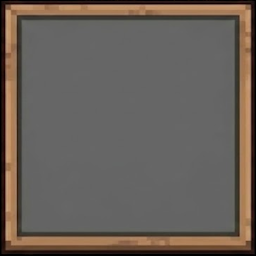
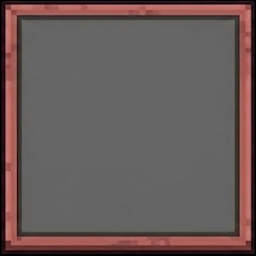
fotky

Changed region(s): [[0.0, 0.0, 1.0, 0.9688]]

diff --git a/Frontend/js/catalog.js b/Frontend/js/catalog.js
@@ -1,70 +1,227 @@
 
+// const squirrelsData = [
+//     { id: 1,  name: "Zrzavá Bleskovka",  desc: "Nejrychlejší běžec v lese.",           str: 35, spd: 95, dur: 40, price: 120, img: "./../images/sq1.png" },
+//     { id: 2,  name: "Veverčí Rváč",      desc: "Unese i ten největší vlašák.",         str: 90, spd: 30, dur: 85, price: 250, img: "./../images/sq2.png" },
+//     { id: 3,  name: "Lesní Průzkumník",  desc: "Spolehlivá veverka na dlouhé cesty.",  str: 60, spd: 65, dur: 60, price: 180, img: "./../images/sq3.png" },
+//     { id: 4,  name: "Noční Stín",        desc: "Operuje hlavně za absolutní tmy.",    str: 45, spd: 80, dur: 50, price: 210, img: "./../images/sq4.png" },
+//     { id: 5,  name: "Oříškový Guru",     desc: "Najde žalud i pod metrem sněhu.",      str: 30, spd: 55, dur: 70, price: 150, img: "./../images/sq5.png" },
+//     { id: 6,  name: "Chundelatý Ninja",  desc: "Skáče z větve na větev bez hnutku.",   str: 55, spd: 85, dur: 45, price: 195, img: "./../images/sq6.png" },
+//     { id: 7,  name: "Dubový Obr",        desc: "Veverka s neuvěřitelnou výdrží.",      str: 85, spd: 25, dur: 95, price: 260, img: "./../images/sq7.png" },
+//     { id: 8,  name: "Veverka Špión",     desc: "Sleduje nepřátelské kmeny ptáků.",     str: 40, spd: 75, dur: 55, price: 165, img: "./../images/sq8.png" },
+//     { id: 9,  name: "Zlatý Sběrač",      desc: "Generuje extra žaludy každou minutu.", str: 50, spd: 60, dur: 65, price: 300, img: "./../images/sq9.png" },
+//     { id: 10, name: "Mladý Učeň",        desc: "Teprve se učí správně louskat.",       str: 20, spd: 40, dur: 30, price: 50,  img: "./../images/sq10.png" },
+//     { id: 11, name: "Veverčí Král",      desc: "Vládce celého dubového paláce.",       str: 95, spd: 70, dur: 80, price: 500, img: "./../images/sq11.png" },
+//     { id: 12, name: "Bleskový Lovec",    desc: "Uloví jakýkoliv hmyz za letu.",        str: 65, spd: 90, dur: 50, price: 220, img: "./../images/sq17.png" },
+//     { id: 13, name: "Starý Mudrc",       desc: "Ví o lese věci, které ostatní ne.",    str: 30, spd: 35, dur: 75, price: 140, img: "./../images/sq18.png" },
+//     { id: 14, name: "Parašutista",       desc: "Plachtí vzduchem na dlouhé vzdálenosti.",str: 50, spd: 80, dur: 60, price: 200, img: "./../images/sq14.png" },
+//     { id: 15, name: "Asfaltový Pirát",   desc: "Veverka zvyklá na městské parky.",     str: 70, spd: 50, dur: 65, price: 175, img: "./../images/sq15.png" },
+//     { id: 16, name: "Sněžný Chlupáč",    desc: "Hustá srst ji chrání před mrazem.",    str: 60, spd: 45, dur: 85, price: 190, img: "./../images/sq16.png" },
+//     { id: 17, name: "Zloděj Šišek",      desc: "Krade zásoby ostatním zvířatům.",      str: 45, spd: 85, dur: 40, price: 185, img: "./../images/sq12.png" },
+//     { id: 18, name: "Kapitán Ocas",      desc: "Vede veverčí jednotky do boje.",       str: 75, spd: 65, dur: 70, price: 240, img: "./../images/sq13.png" },
+//     { id: 19, name: "Kyber Veverka",     desc: "Vylepšená prototypová veverka.",       str: 80, spd: 80, dur: 80, price: 400, img: "./../images/sq19.png" },
+//     { id: 20, name: "Poustevník",        desc: "Žije sama na vrcholu nejvyššího smrku.",str: 55, spd: 55, dur: 70, price: 130, img: "./../images/sq20.png" },
+//     { id: 21, name: "Šílený Vědec",      desc: "Provádí pokusy s kvašenými bobulemi.", str: 40, spd: 60, dur: 55, price: 160, img: "./../images/sq21.png" }
+// ];
+
+// const grid = document.getElementById('catalog-grid');
+
+// squirrelsData.forEach(squirrel => {
+//     const slot = document.createElement('div');
+//     slot.className = 'item-slot';
+//     slot.style.cursor = 'pointer';
+    
+//     const img = document.createElement('img');
+//     img.src = squirrel.img;
+//     img.alt = squirrel.name;
+    
+//     slot.appendChild(img);
+//     grid.appendChild(slot);
+
+//     slot.addEventListener('click', () => {
+//         openModal(squirrel);
+//     });
+// });
+
+// const modal = document.getElementById('info-modal');
+// const modalTitle = document.getElementById('modal-title');
+// const modalDesc = document.getElementById('modal-desc');
+// const modalImg = document.getElementById('modal-img');
+// const modalPrice = document.getElementById('modal-price');
+// const barStr = document.getElementById('bar-str');
+// const barSpd = document.getElementById('bar-spd');
+// const barDur = document.getElementById('bar-dur');
+// const closeBtn = document.querySelector('.close-btn');
+
+// function openModal(data) {
+//     modalTitle.innerText = data.name;
+//     modalDesc.innerText = data.desc;
+//     modalPrice.innerText = data.price;
+//     modalImg.setAttribute('src', data.img);
+
+//     barStr.style.width = data.str + '%';
+//     barSpd.style.width = data.spd + '%';
+//     barDur.style.width = data.dur + '%';
+
+//     modal.classList.add('active');
+// }
+
+// closeBtn.addEventListener('click', () => modal.classList.remove('active'));
+// modal.addEventListener('click', (e) => { if (e.target === modal) modal.classList.remove('active'); });
+   
+
+
+// const squirrelsData = [
+//     // 10x COMMON
+//     { id: 1,  name: "Nutty",  desc: "Always happy as long as there is a fresh acorn in his paws.",           str: 35, spd: 95, dur: 40, price: 120, img: "./../images/nutty.png", rarity: "common" },
+//     { id: 2,  name: "Grumpy",      desc: "Not even a cozy leaf on his head can fix his permanent bad mood.",          str: 90, spd: 30, dur: 85, price: 250, img: "./../images/grumpy.png", rarity: "common" },
+//     { id: 3,  name: "Scout",  desc: "Spolehlivá veverka na dlouhé cesty.",  str: 60, spd: 65, dur: 60, price: 180, img: "./../images/scout.png", rarity: "common" },
+//     { id: 4,  name: "Noční Stín",        desc: "Operuje hlavně za absolutní tmy.",    str: 45, spd: 80, dur: 50, price: 210, img: "./../images/sq4.png", rarity: "common" },
+//     { id: 5,  name: "Oříškový Guru",     desc: "Najde žalud i pod metrem sněhu.",      str: 30, spd: 55, dur: 70, price: 150, img: "./../images/sq5.png", rarity: "common" },
+//     { id: 6,  name: "Chundelatý Ninja",  desc: "Skáče z větve na větev bez hnutku.",   str: 55, spd: 85, dur: 45, price: 195, img: "./../images/sq6.png", rarity: "common" },
+//     { id: 7,  name: "Dubový Obr",        desc: "Veverka s neuvračitelnou výdrží.",      str: 85, spd: 25, dur: 95, price: 260, img: "./../images/sq7.png", rarity: "common" },
+//     { id: 8,  name: "Veverka Špión",     desc: "Sleduje nepřátelské kmeny ptáků.",     str: 40, spd: 75, dur: 55, price: 165, img: "./../images/sq8.png", rarity: "common" },
+//     { id: 10, name: "Mladý Učeň",        desc: "Teprve se učí správně louskat.",       str: 20, spd: 40, dur: 30, price: 50,  img: "./../images/sq9.png", rarity: "common" },
+//     { id: 13, name: "Starý Mudrc",       desc: "Ví o lese věci, které ostatní ne.",    str: 30, spd: 35, dur: 75, price: 140, img: "./../images/sq10.png", rarity: "common" },
+
+//     // 6x RARE
+//     { id: 12, name: "Bleskový Lovec",    desc: "Uloví jakýkoliv hmyz za letu.",        str: 65, spd: 90, dur: 50, price: 220, img: "./../images/sq11.png", rarity: "rare" },
+//     { id: 14, name: "Parašutista",       desc: "Plachtí vzduchem na dlouhé vzdálenosti.",str: 50, spd: 80, dur: 60, price: 200, img: "./../images/sq17.png", rarity: "rare" },
+//     { id: 15, name: "Asfaltový Pirát",   desc: "Veverka zvyklá na městské parky.",     str: 70, spd: 50, dur: 65, price: 175, img: "./../images/sq18.png", rarity: "rare" },
+//     { id: 16, name: "Sněžný Chlupáč",    desc: "Hustá srst ji chrání před mrazem.",    str: 60, spd: 45, dur: 85, price: 190, img: "./../images/sq14.png", rarity: "rare" },
+//     { id: 17, name: "Zloděj Šišek",      desc: "Krade zásoby ostatním zvířatům.",      str: 45, spd: 85, dur: 40, price: 185, img: "./../images/sq15.png", rarity: "rare" },
+//     { id: 18, name: "Kapitán Ocas",      desc: "Vede veverčí jednotky do boje.",       str: 75, spd: 65, dur: 70, price: 240, img: "./../images/sq16.png", rarity: "rare" },
+
+//     // 3x EPIC
+//     { id: 9,  name: "Zlatý Sběrač",      desc: "Generuje extra žaludy každou minutu.", str: 50, spd: 60, dur: 65, price: 300, img: "./../images/sq12.png", rarity: "epic" },
+//     { id: 20, name: "Poustevník",        desc: "Žije sama na vrcholu nejvyššího smrku.",str: 55, spd: 55, dur: 70, price: 130, img: "./../images/sq13.png", rarity: "epic" },
+//     { id: 21, name: "Šílený Vědec",      desc: "Provádí pokusy s kvašenými bobulemi.", str: 40, spd: 60, dur: 55, price: 160, img: "./../images/sq19.png", rarity: "epic" },
+
+//     // 2x LEGENDARY
+//     { id: 11, name: "Veverčí Král",      desc: "Vládce celého dubového paláce.",       str: 95, spd: 70, dur: 80, price: 500, img: "./../images/sq20.png", rarity: "legendary" },
+//     { id: 19, name: "Kyber Veverka",     desc: "Vylepšená prototypová veverka.",       str: 80, spd: 80, dur: 80, price: 400, img: "./../images/sq21.png", rarity: "legendary" }
+// ];
+
+// const grid = document.getElementById('catalog-grid');
+
+// squirrelsData.forEach(squirrel => {
+//     const slot = document.createElement('div');
+//     // TADY: Přidáme hlavní třídu i třídu rarity (např. "item-slot common")
+//     slot.className = `item-slot ${squirrel.rarity}`;
+//     slot.style.cursor = 'pointer';
+    
+//     const img = document.createElement('img');
+//     img.src = squirrel.img;
+//     img.alt = squirrel.name;
+    
+//     slot.appendChild(img);
+//     grid.appendChild(slot);
+
+//     slot.addEventListener('click', () => {
+//         openModal(squirrel);
+//     });
+// });
+
+// const modal = document.getElementById('info-modal');
+// const modalTitle = document.getElementById('modal-title');
+// const modalDesc = document.getElementById('modal-desc');
+// const modalImg = document.getElementById('modal-img');
+// const modalPrice = document.getElementById('modal-price');
+// const barStr = document.getElementById('bar-str');
+// const barSpd = document.getElementById('bar-spd');
+// const barDur = document.getElementById('bar-dur');
+// const closeBtn = document.querySelector('.close-btn');
+
+// function openModal(data) {
+//     modalTitle.innerText = data.name;
+//     modalDesc.innerText = data.desc;
+//     modalPrice.innerText = data.price;
+//     modalImg.setAttribute('src', data.img);
+
+//     barStr.style.width = data.str + '%';
+//     barSpd.style.width = data.spd + '%';
+//     barDur.style.width = data.dur + '%';
+
+//     modal.classList.add('active');
+// }
+
+// closeBtn.addEventListener('click', () => modal.classList.remove('active'));
+// modal.addEventListener('click', (e) => { if (e.target === modal) modal.classList.remove('active'); });
+
 const squirrelsData = [
-    { id: 1,  name: "Zrzavá Bleskovka",  desc: "Nejrychlejší běžec v lese.",           str: 35, spd: 95, dur: 40, price: 120, img: "./../images/sq1.png" },
-    { id: 2,  name: "Veverčí Rváč",      desc: "Unese i ten největší vlašák.",         str: 90, spd: 30, dur: 85, price: 250, img: "./../images/sq2.png" },
-    { id: 3,  name: "Lesní Průzkumník",  desc: "Spolehlivá veverka na dlouhé cesty.",  str: 60, spd: 65, dur: 60, price: 180, img: "./../images/sq3.png" },
-    { id: 4,  name: "Noční Stín",        desc: "Operuje hlavně za absolutní tmy.",    str: 45, spd: 80, dur: 50, price: 210, img: "./../images/sq4.png" },
-    { id: 5,  name: "Oříškový Guru",     desc: "Najde žalud i pod metrem sněhu.",      str: 30, spd: 55, dur: 70, price: 150, img: "./../images/sq5.png" },
-    { id: 6,  name: "Chundelatý Ninja",  desc: "Skáče z větve na větev bez hnutku.",   str: 55, spd: 85, dur: 45, price: 195, img: "./../images/sq6.png" },
-    { id: 7,  name: "Dubový Obr",        desc: "Veverka s neuvěřitelnou výdrží.",      str: 85, spd: 25, dur: 95, price: 260, img: "./../images/sq7.png" },
-    { id: 8,  name: "Veverka Špión",     desc: "Sleduje nepřátelské kmeny ptáků.",     str: 40, spd: 75, dur: 55, price: 165, img: "./../images/sq8.png" },
-    { id: 9,  name: "Zlatý Sběrač",      desc: "Generuje extra žaludy každou minutu.", str: 50, spd: 60, dur: 65, price: 300, img: "./../images/sq9.png" },
-    { id: 10, name: "Mladý Učeň",        desc: "Teprve se učí správně louskat.",       str: 20, spd: 40, dur: 30, price: 50,  img: "./../images/sq10.png" },
-    { id: 11, name: "Veverčí Král",      desc: "Vládce celého dubového paláce.",       str: 95, spd: 70, dur: 80, price: 500, img: "./../images/sq11.png" },
-    { id: 12, name: "Bleskový Lovec",    desc: "Uloví jakýkoliv hmyz za letu.",        str: 65, spd: 90, dur: 50, price: 220, img: "./../images/sq12.png" },
-    { id: 13, name: "Starý Mudrc",       desc: "Ví o lese věci, které ostatní ne.",    str: 30, spd: 35, dur: 75, price: 140, img: "./../images/sq13.png" },
-    { id: 14, name: "Parašutista",       desc: "Plachtí vzduchem na dlouhé vzdálenosti.",str: 50, spd: 80, dur: 60, price: 200, img: "./../images/sq14.png" },
-    { id: 15, name: "Asfaltový Pirát",   desc: "Veverka zvyklá na městské parky.",     str: 70, spd: 50, dur: 65, price: 175, img: "./../images/sq15.png" },
-    { id: 16, name: "Sněžný Chlupáč",    desc: "Hustá srst ji chrání před mrazem.",    str: 60, spd: 45, dur: 85, price: 190, img: "./../images/sq16.png" },
-    { id: 17, name: "Zloděj Šišek",      desc: "Krade zásoby ostatním zvířatům.",      str: 45, spd: 85, dur: 40, price: 185, img: "./../images/sq17.png" },
-    { id: 18, name: "Kapitán Ocas",      desc: "Vede veverčí jednotky do boje.",       str: 75, spd: 65, dur: 70, price: 240, img: "./../images/sq18.png" },
-    { id: 19, name: "Kyber Veverka",     desc: "Vylepšená prototypová veverka.",       str: 80, spd: 80, dur: 80, price: 400, img: "./../images/sq19.png" },
-    { id: 20, name: "Poustevník",        desc: "Žije sama na vrcholu nejvyššího smrku.",str: 55, spd: 55, dur: 70, price: 130, img: "./../images/sq20.png" },
-    { id: 21, name: "Šílený Vědec",      desc: "Provádí pokusy s kvašenými bobulemi.", str: 40, spd: 60, dur: 55, price: 160, img: "./../images/sq21.png" }
+    // 10x COMMON
+    { id: 1,  name: "Nutty",  desc: "Always happy as long as there is a fresh acorn in his paws.",           str: 35, spd: 95, dur: 40, price: 120, img: "./../images/nutty.png", rarity: "common" }, // [cite: 1, 22]
+    { id: 2,  name: "Grumpy",      desc: "Not even a cozy leaf on his head can fix his permanent bad mood.",          str: 90, spd: 30, dur: 85, price: 250, img: "./../images/grumpy.png", rarity: "common" }, // [cite: 2, 22, 23]
+    { id: 3,  name: "Scout",  desc: "Determined to map every single tree in the forest, even if it takes all day.",  str: 60, spd: 65, dur: 60, price: 180, img: "./../images/scout.png", rarity: "common" }, // [cite: 3, 23]
+    { id: 4,  name: "Peanut",        desc: "Caught in utter shock after dropping his favorite little pebble.",    str: 45, spd: 80, dur: 50, price: 210, img: "./../images/peanut.png", rarity: "common" }, // [cite: 4, 23]
+    { id: 5,  name: "Twiggy",     desc: "A playful companion who believes a good stick is the ultimate treasure.",   str: 30, spd: 55, dur: 70, price: 150, img: "./../images/twiggy.png", rarity: "common" }, // [cite: 5, 23, 24]
+    { id: 6,  name: "Blossom",  desc: "Soft-spoken and gentle, she loves nothing more than the scent of fresh flowers.",   str: 55, spd: 85, dur: 45, price: 195, img: "./../images/blossom.png", rarity: "common" }, // [cite: 6, 24]
+    { id: 7,  name: "Tailor",        desc: "The forest's finest weaver, carefully crafting warm coats from spool and thread.",      str: 85, spd: 25, dur: 95, price: 260, img: "./../images/tailor.png", rarity: "common" }, // [cite: 7, 24]
+    { id: 8,  name: "Bubbles",     desc: "Spreading joy through the woods with his endless supply of magical, floating bubbles.",     str: 40, spd: 75, dur: 55, price: 165, img: "./../images/bubbles.png", rarity: "common" }, // [cite: 8, 24, 25]
+    { id: 10, name: "Chyppy",        desc: "A rare snow-furred beauty who blends perfectly into the winter scenery.",       str: 20, spd: 40, dur: 30, price: 50,  img: "./../images/chyppy.png", rarity: "common" }, // [cite: 10, 25]
+    { id: 13, name: "Berry",       desc: "A sweet little chipmunk who always knows where to find the juiciest forest berries.",    str: 30, spd: 35, dur: 75, price: 140, img: "./../images/berry.png", rarity: "common" }, // [cite: 13, 25, 26]
+
+    // 6x RARE
+    { id: 12, name: "Chef",    desc: "Master of the woodland kitchen, famous for flipping the perfect acorn pancake.",        str: 65, spd: 90, dur: 50, price: 220, img: "./../images/chef.png", rarity: "rare" }, // [cite: 12, 26]
+    { id: 14, name: "Gamer",       desc: "Fully immersed in his glowing device, completely oblivious to the world around him.",str: 50, spd: 80, dur: 60, price: 200, img: "./../images/gamer.png", rarity: "rare" }, // [cite: 14, 26]
+    { id: 15, name: "Knight",   desc: "A brave protector clad in shining armor, guarding the sacred crystal with his life.",     str: 70, spd: 50, dur: 65, price: 175, img: "./../images/knight.png", rarity: "rare" }, // [cite: 15, 26, 27]
+    { id: 16, name: "Phoenix",    desc: "Blessed with majestic feathery wings, she soars through the canopy like a spark of fire.",    str: 60, spd: 45, dur: 85, price: 190, img: "./../images/phoenix.png", rarity: "rare" }, // [cite: 16, 27]
+    { id: 17, name: "Explorer",      desc: "Equipped with his trusty magnifying glass, he hunts for hidden paths and ancient secrets.",      str: 45, spd: 85, dur: 40, price: 185, img: "./../images/explorer.png", rarity: "rare" }, // [cite: 17, 27]
+    { id: 18, name: "Rogue",      desc: "Strikes from the shadows with a sharpened twig, leaving no trace behind.",       str: 75, spd: 65, dur: 70, price: 240, img: "./../images/rogue.png", rarity: "rare" }, // [cite: 18, 27, 28]
+
+    // 3x EPIC
+    { id: 9,  name: "King Midas",      desc: "Sitting atop an endless pile of gold, his royal rule is as solid as his crown.", str: 50, spd: 60, dur: 65, price: 300, img: "./../images/kingmidas.png", rarity: "epic" }, // [cite: 9, 28]
+    { id: 20, name: "Druid",        desc: "Half-machine and half-nature, guarding the forest with an enhanced cybernetic eye.",str: 55, spd: 55, dur: 70, price: 130, img: "./../images/druid.png", rarity: "epic" }, // [cite: 20, 28, 29]
+    { id: 19, name: "Blizzard",     desc: "Born from absolute zero, this frozen creature radiates a chilling, mystical aura.",        str: 80, spd: 80, dur: 80, price: 400, img: "./../images/blizzard.png", rarity: "legendary" }, // [cite: 19, 29, 30]
+
+
+    // 2x LEGENDARY
+    { id: 11, name: "Angel",      desc: "Strikes from the shadows with a sharpened twig, leaving no trace behind.",       str: 95, spd: 70, dur: 80, price: 500, img: "./../images/angel.png", rarity: "legendary" }, // [cite: 11, 29]
+    { id: 21, name: "Inferno",      desc: "An unstoppable elemental force wrapped in cosmic blue flames and crackling energy", str: 40, spd: 60, dur: 55, price: 160, img: "./../images/inferno.png", rarity: "epic" }, // [cite: 21, 29]
 ];
 
-const grid = document.getElementById('catalog-grid');
-
-squirrelsData.forEach(squirrel => {
-    const slot = document.createElement('div');
-    slot.className = 'item-slot';
-    slot.style.cursor = 'pointer';
+const grid = document.getElementById('catalog-grid'); // [cite: 30, 31]
+squirrelsData.forEach(squirrel => { // [cite: 31]
+    const slot = document.createElement('div'); // [cite: 31]
+    // TADY: Přidáme hlavní třídu i třídu rarity (např. "item-slot common")
+    slot.className = `item-slot ${squirrel.rarity}`; // [cite: 31]
+    slot.style.cursor = 'pointer'; // [cite: 31]
     
-    const img = document.createElement('img');
-    img.src = squirrel.img;
-    img.alt = squirrel.name;
+    const img = document.createElement('img'); // [cite: 31]
+    img.src = squirrel.img; // [cite: 31]
+    img.alt = squirrel.name; // [cite: 31]
     
-    slot.appendChild(img);
-    grid.appendChild(slot);
+    slot.appendChild(img); // [cite: 31]
+    grid.appendChild(slot); // [cite: 31]
 
-    slot.addEventListener('click', () => {
-        openModal(squirrel);
-    });
-});
+    slot.addEventListener('click', () => { // [cite: 31]
+        openModal(squirrel); // [cite: 31]
+    }); // [cite: 31]
+}); // [cite: 31]
 
-const modal = document.getElementById('info-modal');
-const modalTitle = document.getElementById('modal-title');
-const modalDesc = document.getElementById('modal-desc');
-const modalImg = document.getElementById('modal-img');
-const modalPrice = document.getElementById('modal-price');
-const barStr = document.getElementById('bar-str');
-const barSpd = document.getElementById('bar-spd');
-const barDur = document.getElementById('bar-dur');
-const closeBtn = document.querySelector('.close-btn');
+const modal = document.getElementById('info-modal'); // [cite: 32]
+const modalTitle = document.getElementById('modal-title'); // [cite: 32]
+const modalDesc = document.getElementById('modal-desc'); // [cite: 32]
+const modalImg = document.getElementById('modal-img'); // [cite: 32]
+const modalPrice = document.getElementById('modal-price'); // [cite: 32]
 
-function openModal(data) {
-    modalTitle.innerText = data.name;
-    modalDesc.innerText = data.desc;
-    modalPrice.innerText = data.price;
-    modalImg.setAttribute('src', data.img);
+const barStr = document.getElementById('bar-str'); // [cite: 33]
+const barSpd = document.getElementById('bar-spd'); // [cite: 33]
+const barDur = document.getElementById('bar-dur'); // [cite: 33]
+const closeBtn = document.querySelector('.close-btn'); // [cite: 33]
 
-    barStr.style.width = data.str + '%';
-    barSpd.style.width = data.spd + '%';
-    barDur.style.width = data.dur + '%';
+function openModal(data) { // [cite: 34]
+    modalTitle.innerText = data.name; // [cite: 34]
+    modalDesc.innerText = data.desc; // [cite: 34]
+    modalPrice.innerText = data.price; // [cite: 34]
+    modalImg.setAttribute('src', data.img); // [cite: 34]
 
-    modal.classList.add('active');
-}
+    barStr.style.width = data.str + '%'; // [cite: 35]
+    barSpd.style.width = data.spd + '%'; // [cite: 35]
+    barDur.style.width = data.dur + '%'; // [cite: 35]
 
-closeBtn.addEventListener('click', () => modal.classList.remove('active'));
-modal.addEventListener('click', (e) => { if (e.target === modal) modal.classList.remove('active'); });
-   
+    modal.classList.add('active'); // [cite: 35]
+} // [cite: 35]
+
+closeBtn.addEventListener('click', () => modal.classList.remove('active')); // [cite: 35]
+
+modal.addEventListener('click', (e) => { if (e.target === modal) modal.classList.remove('active'); }); // [cite: 36]

diff --git a/Frontend/styles/catalog.css b/Frontend/styles/catalog.css
@@ -166,7 +166,7 @@ html, body, img, .item-slot, .back-btn {
     height: 60vh; 
 }
 
-.item-slot {
+.item-slot.common {
     background: url('./../images/back.png') no-repeat center center/150px 150px; 
     border-radius: 0px;
     display: flex;
@@ -177,6 +177,52 @@ html, body, img, .item-slot, .back-btn {
     height: 100%;
     width: auto;
 }
+
+.item-slot.rare {
+    background: url('./../images/back-rare.png') no-repeat center center/150px 150px; 
+    border-radius: 0px;
+    display: flex;
+    justify-content: center;
+    align-items: center;
+    padding: 0;
+    transition: background-color 0.15s ease;
+    height: 100%;
+    width: auto;
+}
+
+.item-slot.epic {
+    background: url('./../images/back-epic.png') no-repeat center center/150px 150px; 
+    border-radius: 0px;
+    display: flex;
+    justify-content: center;
+    align-items: center;
+}
+
+.item-slot.legendary {
+    background: url('./../images/back-legendary.png') no-repeat center center/150px 150px; 
+    border-radius: 0px;
+    display: flex;
+    justify-content: center;
+    align-items: center;
+    padding: 0;
+    transition: background-color 0.15s ease;
+    height: 100%;
+    width: auto;
+}
+
+/* .item-slot {
+    background: url('./../images/back.png') no-repeat center center/150px 150px; 
+    border-radius: 0px;
+    display: flex;
+    justify-content: center;
+    align-items: center;
+    padding: 0;
+    transition: background-color 0.15s ease;
+    height: 100%;
+    width: auto;
+} */
+
+
 
 
 

diff --git a/Frontend/html/catalog.html b/Frontend/html/catalog.html
@@ -36,10 +36,10 @@
             <span class="close-btn">&times;</span>
             
             <div class="modal-body">
-                <img id="modal-img" src="" alt="Veverka">
-                <h2 id="modal-title">Jméno</h2>
-                <p id="modal-desc">Popis</p>
-                
+                <img id="modal-img" src="" alt="Squirrel">
+                <h2 id="modal-title">Name</h2>
+                <p id="modal-desc">Description</p>
+
                 <div class="stats-container">
                     <div class="stat-row">
                         <span class="stat-label">STRENGHT</span>